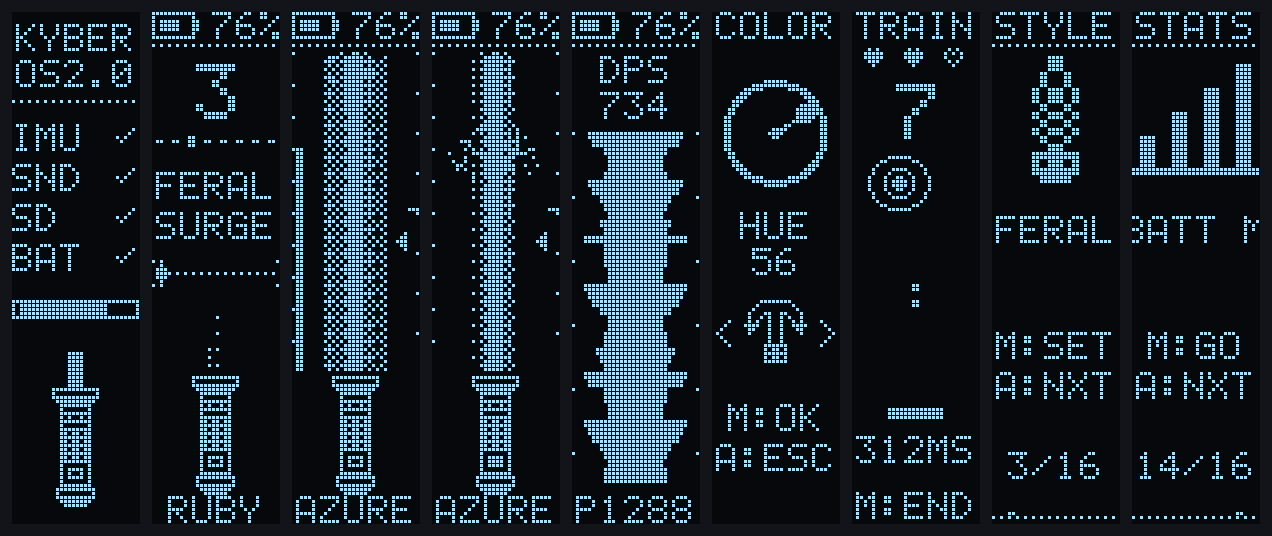
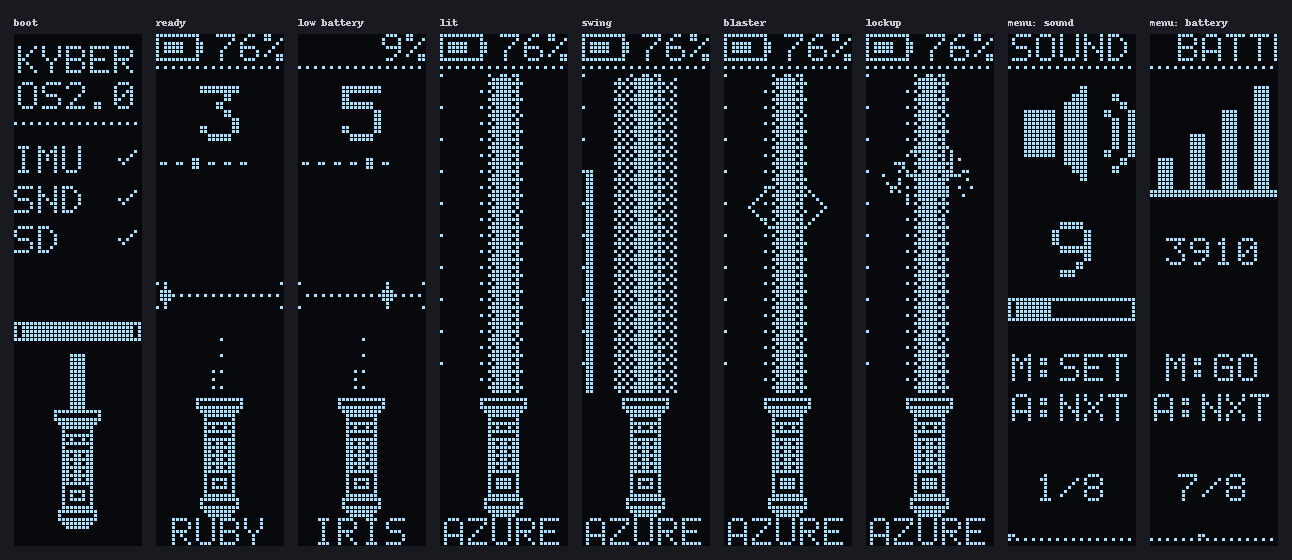
Regenerate README images for the simplified firmware

diff --git a/firmware/tools/make_readme_images.py b/firmware/tools/make_readme_images.py
@@ -1,0 +1,62 @@
+#!/usr/bin/env python3
+"""Build docs/images/oled-screens.png and blade-effects.png from the simulator output.
+
+  python firmware/tools/sim/run_sim.py && python firmware/tools/make_readme_images.py
+"""
+from pathlib import Path
+
+from PIL import Image, ImageDraw
+
+HERE = Path(__file__).resolve().parent
+RAW = HERE / "out" / "raw"
+DOCS = HERE.parent.parent / "docs" / "images"
+BG, FG = (24, 26, 32), (200, 200, 210)
+PAD, LAB = 14, 20
+
+
+def oled(name, scale=4):
+    src = Image.open(RAW / f"ui_{name}.pgm")
+    w, h = src.size
+    img = Image.new("RGB", (w * scale, h * scale), (6, 8, 12))
+    d = ImageDraw.Draw(img)
+    px = src.load()
+    for y in range(h):
+        for x in range(w):
+            if px[x, y]:
+                d.rectangle([x * scale, y * scale, x * scale + scale - 2, y * scale + scale - 2], fill=(170, 225, 255))
+    return img
+
+
+def sheet(tiles, cols):
+    tw = max(t.width for _, t in tiles)
+    th = max(t.height for _, t in tiles)
+    rows = (len(tiles) + cols - 1) // cols
+    img = Image.new("RGB", (cols * (tw + PAD) + PAD, rows * (th + PAD + LAB) + PAD), BG)
+    d = ImageDraw.Draw(img)
+    for i, (label, t) in enumerate(tiles):
+        x = PAD + (i % cols) * (tw + PAD)
+        y = PAD + (i // cols) * (th + PAD + LAB)
+        d.text((x, y + 3), label, fill=FG)
+        img.paste(t, (x, y + LAB))
+    return img
+
+
+def blade(name, width=520, height=150):
+    # time runs left to right, hilt at the bottom, tip at the top
+    return Image.open(RAW / f"blade_{name}.ppm").resize((width, height), Image.LANCZOS)
+
+
+def main():
+    screens = [("boot", "boot_1850"), ("ready", "idle"), ("low battery", "idle_lowbatt"), ("lit", "on_still"),
+               ("swing", "on_swing"), ("blaster", "on_blaster"), ("lockup", "on_lockup"), ("menu: sound", "menu_00"),
+               ("menu: battery", "menu_06")]
+    sheet([(n, oled(f)) for n, f in screens], 9).save(DOCS / "oled-screens.png")
+
+    tiles = [("ignite and retract", blade("ignite")), ("flash, blaster block, lockup", blade("effects"))]
+    names = ["azure", "jade", "ruby", "amber", "iris", "ice"]
+    tiles += [(f"{n}, with a swing in the middle", blade(f"look_{i}")) for i, n in enumerate(names)]
+    sheet(tiles, 2).save(DOCS / "blade-effects.png")
+
+
+if __name__ == "__main__":
+    main()

diff --git a/README.md b/README.md
@@ -25,8 +25,9 @@ Firmware **KYBER OS 2**: a small feature set, done properly.
   with no framebuffer.
 - Auto-retract after 5 minutes idle. Settings live in EEPROM.
 
-*Run `python firmware/tools/sim/run_sim.py` to render the current OLED screens and blade
-effects into `firmware/tools/out/`.*
+<img src="docs/images/oled-screens.png" alt="OLED screens: boot self-test, ready, low battery, lit, swing, blaster, lockup, menu" width="100%">
+
+*The OLED screens as rendered by the firmware's own UI code in the PC simulator (1 px = 1 OLED pixel).*
 
 ## Controls
 
@@ -174,10 +175,17 @@ How it fits in 2 KB of RAM and a 16 MHz CPU:
 python firmware/tools/gen_assets.py     # font + pixel-art icons -> assets.h (edit the art in the script)
 python firmware/tools/make_sounds.py    # synthesize the sound font -> sd-card/, sound_lengths.h
 python firmware/tools/sim/run_sim.py    # compile ui/blade on the PC, render screens + blade timelines
+python firmware/tools/make_readme_images.py  # rebuild docs/images from the simulator output
+python firmware/tools/get_saber_sounds.py    # install the real blade sounds on the SD card image
 ```
 
 The simulator (MSYS2 g++ or MSVC) runs the real `ui.cpp` and `blade.cpp` and writes
 PNGs to `firmware/tools/out/`. Use it to design screens and effects without flashing.
+
+<img src="docs/images/blade-effects.png" alt="Blade timelines from the simulator" width="620">
+
+*Blade timelines from the simulator: time runs left to right, hilt at the bottom. Top: ignite and
+retract, then the effects. Below: each colour with a swing in the middle.*
 
 ### SD card
 
